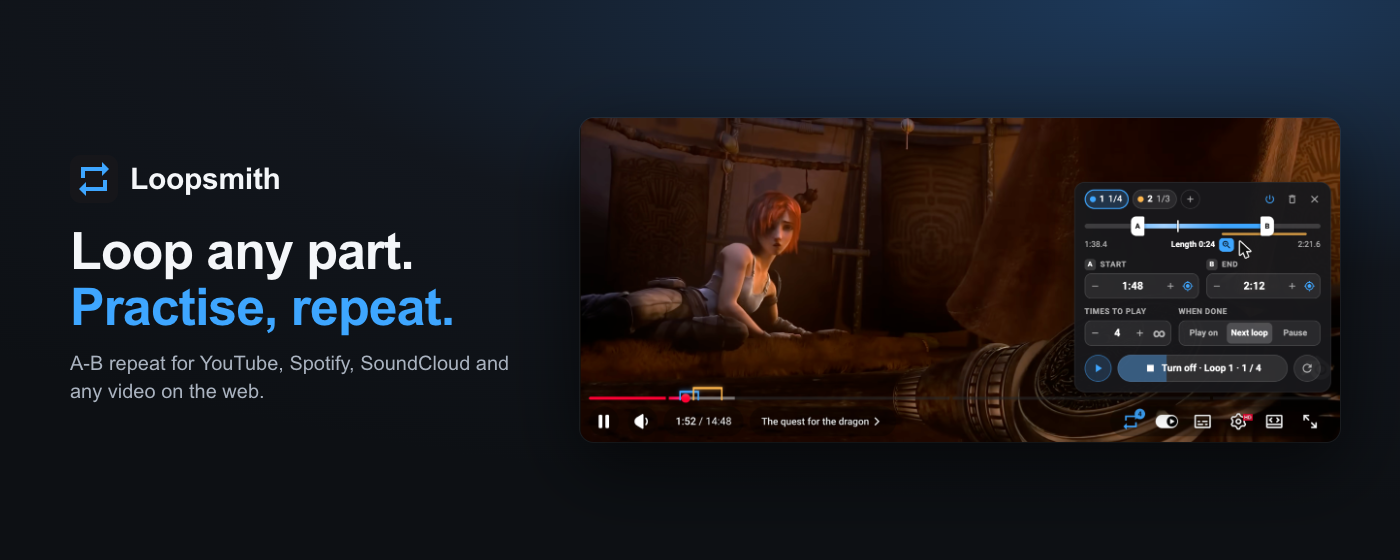
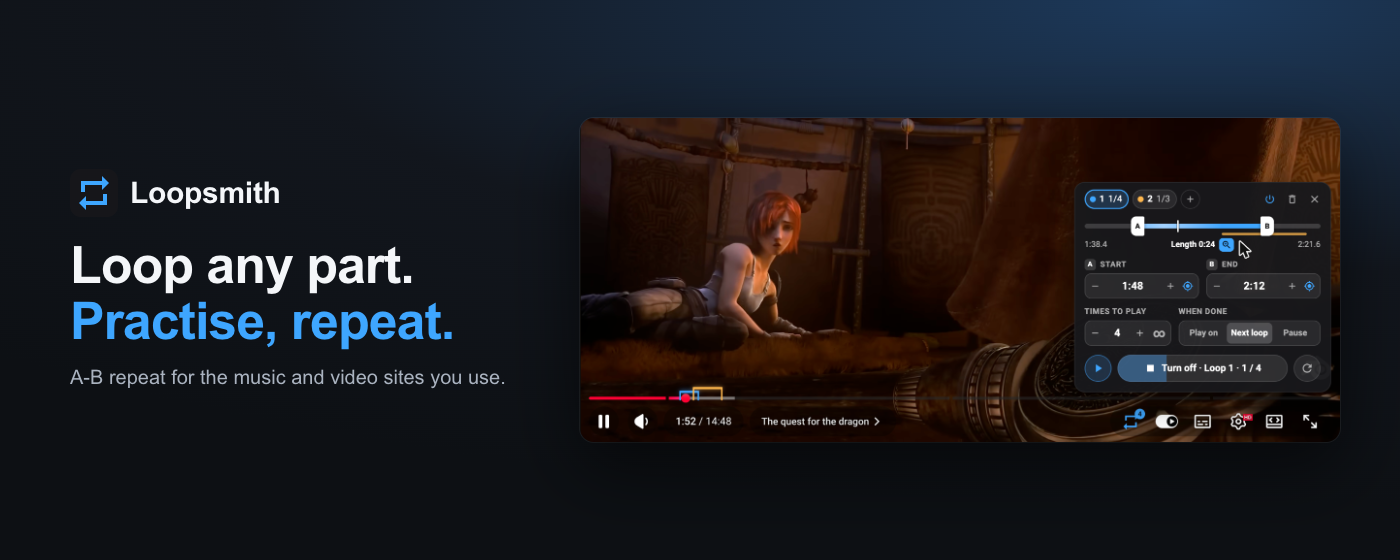
Listing: drop the list of site names (Chrome Web Store keyword-stuffing review)

Changed region(s): [[0.0307, 0.425, 0.3379, 0.6071], [0.0307, 0.6375, 0.3686, 0.7286], [0.0614, 0.2732, 0.215, 0.3643]]

diff --git a/store/listing.md b/store/listing.md
@@ -11,31 +11,26 @@ Loop any part of a song or video, as many times as you want, then move on.
 
 Loopsmith adds an A-B repeat to the players you already use. Mark a start and an end, choose how many times the section plays (or forever), and let it run without reaching for the mouse.
 
-Made for two things:
-• Practice: learning a guitar riff, a song's hard part, a dance move, a language, a lecture, a speedrun route.
-• Music on repeat: keep your favourite part of a song playing, on Spotify, YouTube Music, SoundCloud or YouTube.
+It is made for two things: practising (a guitar riff, the hard part of a song, a dance move, a language lesson) and keeping your favourite part of a song on repeat.
 
 WHAT YOU CAN DO
 • Set the start and end by dragging the A and B handles, typing a time (1:23, 90s, 1m30s), or grabbing the current position.
 • Choose how many times a section plays, from 1 to 999, or forever.
-• Add several loops on the same video (up to 12), even overlapping ones. Switch a loop off without deleting it.
+• Add several loops on the same video or track, even overlapping ones. Switch a loop off without deleting it.
 • Decide what happens when a loop is done: play on, jump straight to the next loop, or pause after the last one.
 • See your loops on the site's own progress bar.
-• Your loops are saved per video or track, and come back when you return.
+• Your loops are saved and come back when you return.
 • Keyboard shortcuts: Shift+A / Shift+B set the start / end to now, Shift+S plays the loop, Shift+R turns looping on or off.
 
-WORKS ON
-• YouTube and YouTube Music
-• Spotify (web player), SoundCloud, Bandcamp
-• Vimeo, Twitch videos and clips, Bilibili, Dailymotion
-• Any other website with a video or audio player: click the Loopsmith icon and choose "Turn on for this site". Loopsmith only runs where you allow it.
+WHERE IT WORKS
+Loopsmith works out of the box on YouTube, Spotify and other popular video and music sites. On any other website with a video or audio player, click the Loopsmith icon and choose "Turn on for this site": it only runs where you allow it.
 
 PRIVATE BY DESIGN
 • No account, no tracking, no analytics, no ads.
 • Loopsmith never sends anything anywhere: your loops are stored in your browser only.
 • It only asks for access to other websites when you turn it on for them, one site at a time.
 
-Live streams can't be looped (there's nothing to go back to). Loopsmith is not affiliated with YouTube, Spotify or any of the sites it works on.
+Live streams can't be looped, since there is nothing to go back to. Loopsmith is not affiliated with any of the sites it works on.
 ```
 
 **Category:** Outils (Tools). Alternative if you prefer to reach learners: Éducation.
